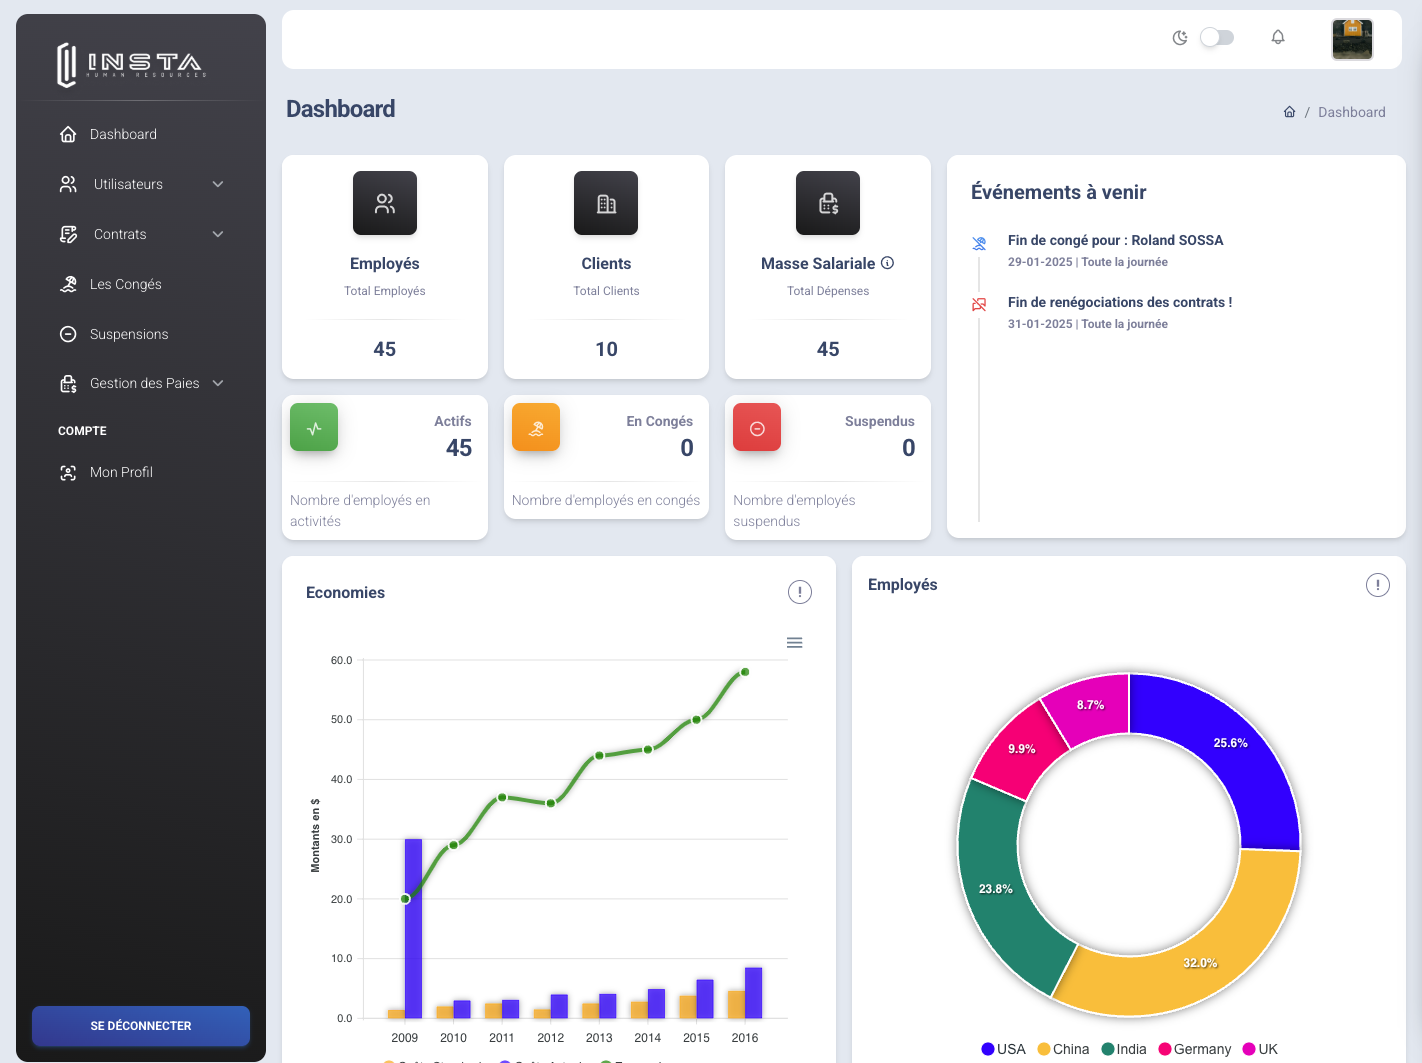
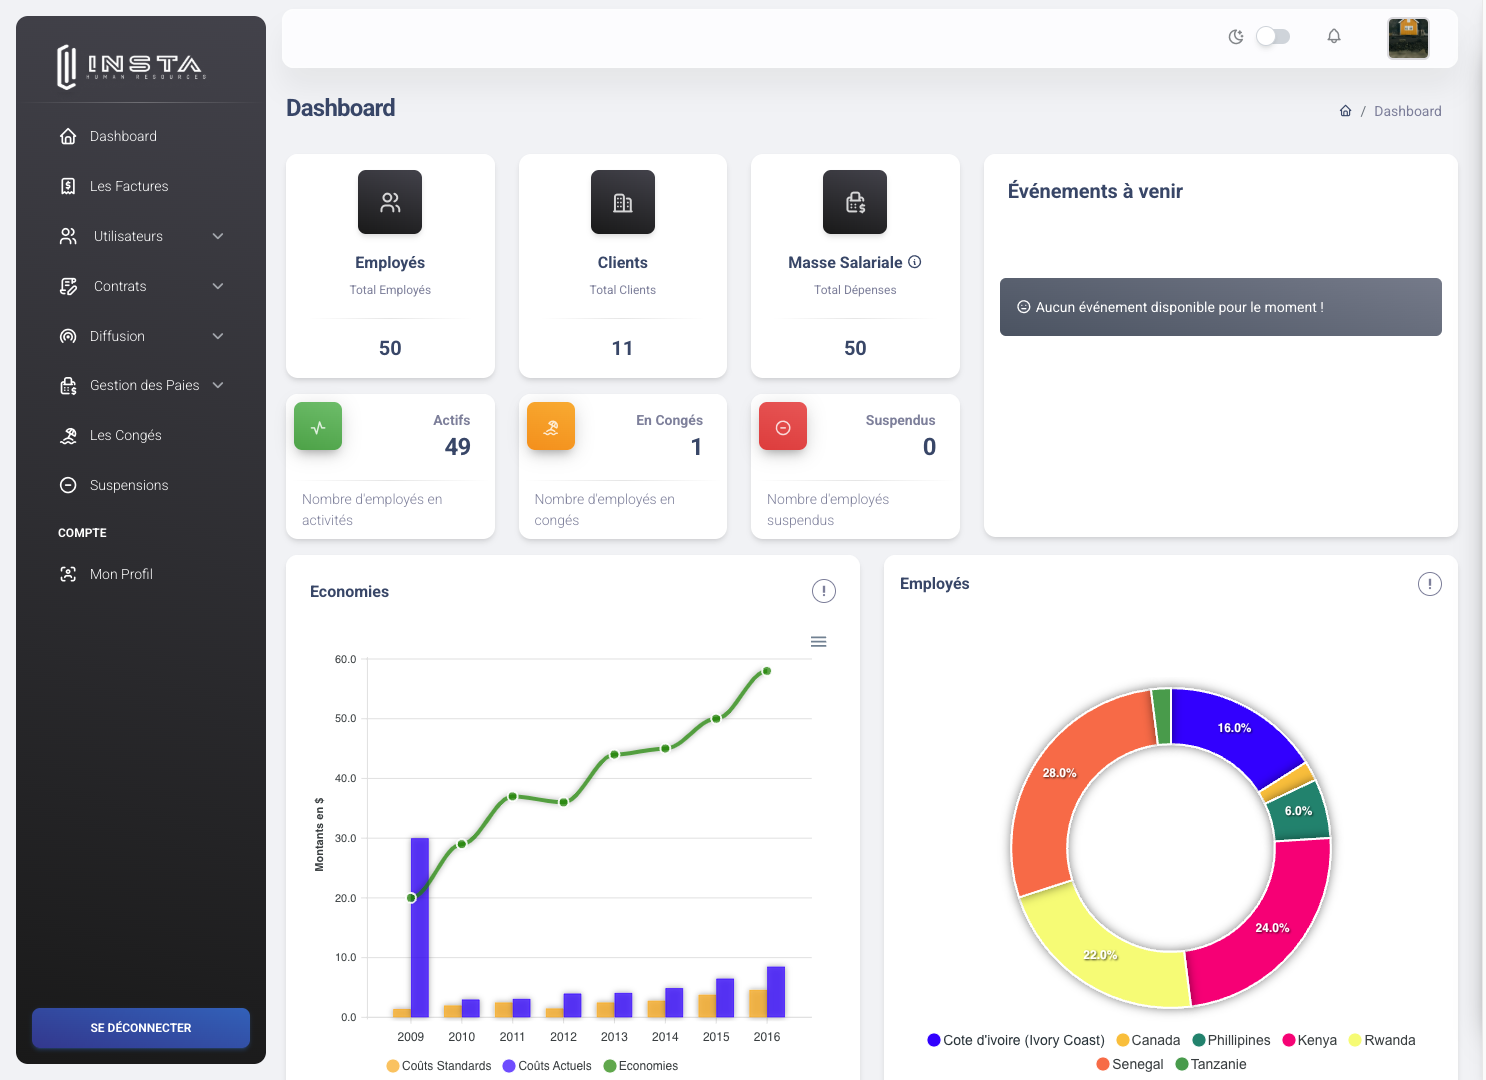
✨ ajout(assets) : ajouter de nouvelles images et un GIF pour le projet RecruitEase ✨ ajout(assets) : ajouter de nouvelles images pour le projet instaHR ✨ mise à jour(types) : étendre les types de projet et de traductions pour inclure des descriptions, des fonctionnalités et des liens ♻ refactorisati

diff --git a/src/data/resume.tsx b/src/data/resume.tsx
@@ -292,26 +292,22 @@ export function getData(locale: "en" | "fr" = "fr") {
         dates: "June 2023 - Present",
         active: true,
         technologies: [
-          "Next.js",
-          "Typescript",
-          "PostgreSQL",
-          "Prisma",
-          "TailwindCSS",
-          "Stripe",
-          "Shadcn UI",
-          "Magic UI",
+          "ASP.NET",
+          "C#",
+          "SQL Server",
+          "Vue.js",
+          "Bootstrap",
+          "Vite",
+          "PrimeVue",
+          "Zoho API",
         ],
         images: [
-          "/projects/instaHR/login.png",
           "/projects/instaHR/dash.png",
           "/projects/instaHR/login.png",
-          "/projects/instaHR/dash.png",
-          "/projects/instaHR/login.png",
-          "/projects/instaHR/dash.png",
-          "/projects/instaHR/login.png",
-          "/projects/instaHR/dash.png",
+          "/projects/instaHR/factures.png",
+          "/projects/instaHR/users.png",
+          
         ],
-        video: "https://cdn.magicui.design/bento-grid.mp4",
         links: [
           {
             type: "Website",
@@ -339,7 +335,6 @@ export function getData(locale: "en" | "fr" = "fr") {
           "Shadcn UI",
           "Magic UI",
           "Stripe",
-          "Cloudflare Workers",
         ],
         images: ["/llm-dashboard.png", "/llm-analytics.png"],
         video:
@@ -358,27 +353,30 @@ export function getData(locale: "en" | "fr" = "fr") {
         ],
       },
       {
-        title: "AutomaticChat",
-        href: "https://automatic.chat",
+        title: "recruitEase",
+        href: "",
         dates: "April 2023 - March 2024",
         active: true,
         technologies: [
           "Next.js",
+          "C#",
+          "ASP.NET",
+          "OpenAI API",
+          "Redis",
+          "Upstash",
           "Typescript",
           "PostgreSQL",
-          "Prisma",
           "TailwindCSS",
-          "Shadcn UI",
-          "Magic UI",
           "Stripe",
-          "Cloudflare Workers",
         ],
         images: [
-          "/automatic-chat-interface.png",
-          "/automatic-chat-analytics.png",
+          "/projects/recruitEase/landing2.gif",
+          "/projects/recruitEase/jobs.png",
+          "/projects/recruitEase/landing.png",
+          "/projects/recruitEase/recommendations.png",
         ],
         video:
-          "https://pub-83c5db439b40468498f97946200806f7.r2.dev/automatic-chat.mp4",
+          "https://cwxxwhrcxhafmhhqszgm.supabase.co/storage/v1/object/public/video//recruitease.mp4",
         links: [
           {
             type: "Website",

diff --git a/src/components/project-card.tsx b/src/components/project-card.tsx
@@ -94,7 +94,7 @@ export function ProjectCard({
           className
         )}
         onClick={() => setActive(true)}>
-        {video && (
+        {video ? (
           <video
             src={video}
             autoPlay
@@ -103,7 +103,15 @@ export function ProjectCard({
             playsInline
             className="pointer-events-none mx-auto h-40 w-full object-cover object-top"
           />
-        )}
+        ) : images?.[0] ? (
+          <Image
+            src={images[0]}
+            alt={title}
+            width={800}
+            height={400}
+            className="pointer-events-none mx-auto h-40 w-full object-cover object-top"
+          />
+        ) : null}
         <CardHeader className="px-2">
           <div className="space-y-1">
             <CardTitle className="mt-1 text-base">{title}</CardTitle>
@@ -158,7 +166,7 @@ export function ProjectCard({
                 <motion.div
                   ref={ref}
                   className="w-full sm:max-w-[600px] mx-auto h-[90vh] sm:h-fit sm:max-h-[90vh] flex flex-col bg-white dark:bg-neutral-900 rounded-2xl sm:rounded-3xl overflow-hidden">
-                  {video && (
+                  {video ? (
                     <video
                       src={video}
                       autoPlay
@@ -167,7 +175,13 @@ export function ProjectCard({
                       playsInline
                       className="pointer-events-none mx-auto h-48 sm:h-70 w-full object-cover object-top"
                     />
-                  )}
+                  ) : images && images.length > 0 ? (
+                    <img
+                      src={images[1]}
+                      alt={title}
+                      className="pointer-events-none mx-auto h-48 sm:h-70 w-full object-cover object-top"
+                    />
+                  ) : null}
                   <ScrollArea className="h-full sm:h-[55vh]">
                     <div className="p-4 sm:p-6">
                       <div className="flex flex-col sm:flex-row sm:justify-between sm:items-center gap-4">

diff --git a/src/app/locales/types.ts b/src/app/locales/types.ts
@@ -52,6 +52,13 @@ export type Translations = {
       subtitle: string;
       description: string;
       badge: string;
+      video: string | null;
+      images: string[];
+      links: {
+        type: string;
+        href: string;
+        icon: string;
+      }[];
       magicSearch: {
         description: string;
         overview: string;
@@ -66,6 +73,13 @@ export type Translations = {
         description: string;
         overview: string;
         features: string[];
+        video: string | null;
+        images: string[];
+        links: {
+          type: string;
+          href: string;
+          icon: string;
+        }[];
         challenges: Array<{
           title: string;
           description: string;
@@ -76,14 +90,28 @@ export type Translations = {
         description: string;
         overview: string;
         features: string[];
+        video: string | null;
+        images: string[];
+        links: {
+          type: string;
+          href: string;
+          icon: string;
+        }[];
         challenges: Array<{
           title: string;
           description: string;
         }>;
         conclusion: string;
       };
-      automaticChat: {
+      recruitEase: {
         description: string;
+        video: string | null;
+        images: string[];
+        links: {
+          type: string;
+          href: string;
+          icon: string;
+        }[];
         overview: string;
         features: string[];
         challenges: Array<{

diff --git a/src/app/[locale]/page.tsx b/src/app/[locale]/page.tsx
@@ -43,6 +43,14 @@ type Project = {
     href: string;
     icon: JSX.Element;
   }>;
+  description: string;
+  overview: string;
+  features: string[];
+  challenges: Array<{
+    title: string;
+    description: string;
+  }>;
+  conclusion: string;
 };
 
 type ProjectsType =
